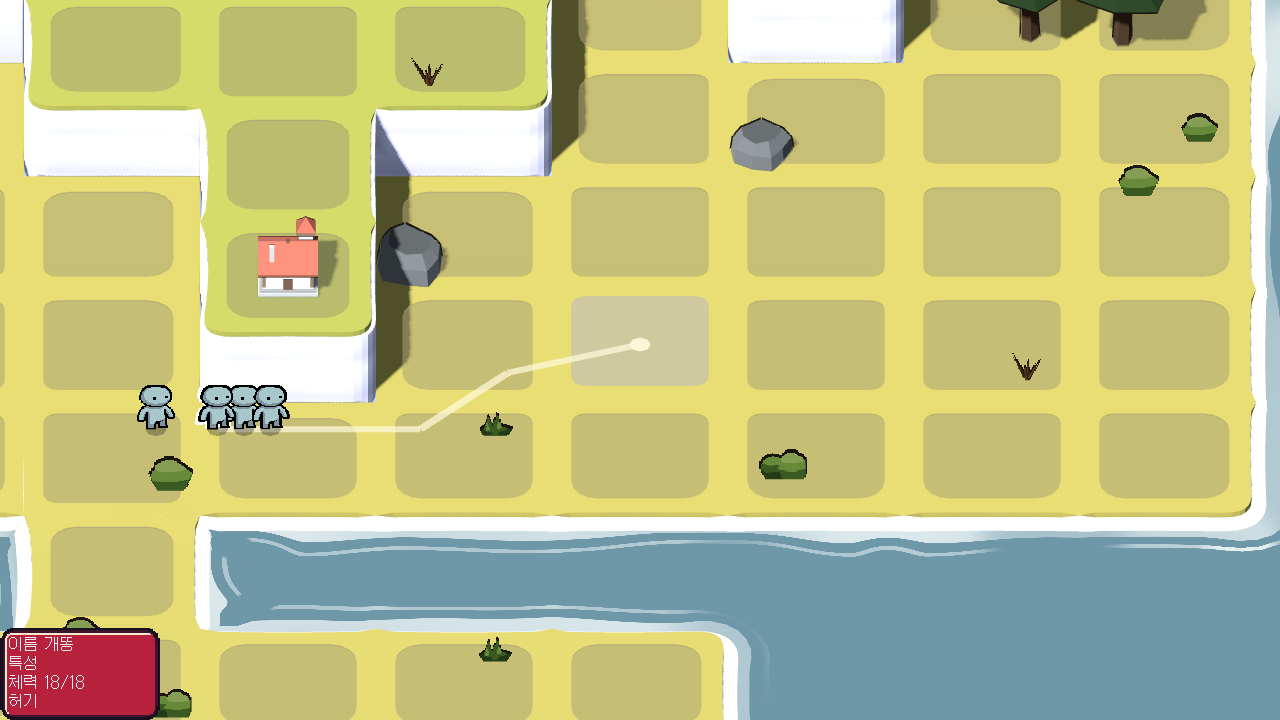
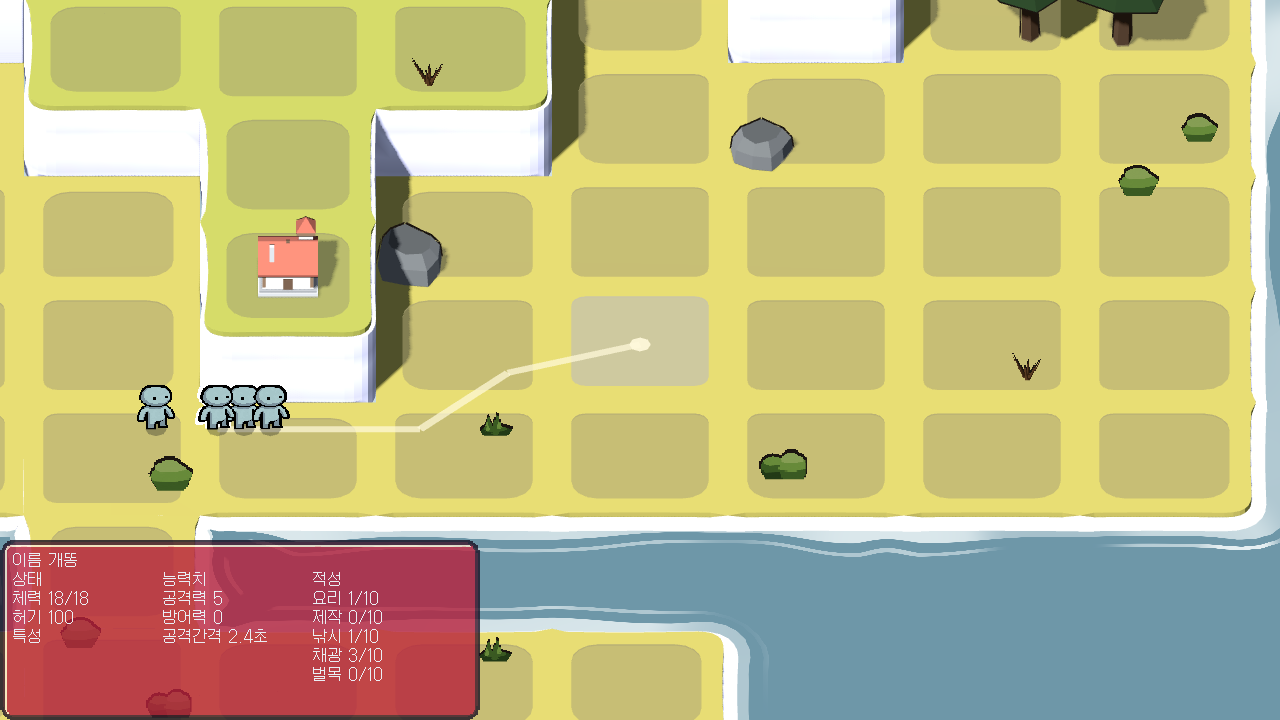
03-02 answered — the panel is built, verified twice, merged with main at 147d9793; suite 3161 / 4
Claude-Session: https://claude.ai/code/session_01HcXkgFFUa2csgqAB95KSTw

diff --git a/docs/roadmap/task-03-command-the-squads/02-what-is-picked/03-02.ticket.md b/docs/roadmap/task-03-command-the-squads/02-what-is-picked/03-02.ticket.md
@@ -4,7 +4,7 @@ Ticket: 03-02
 Name: 고른 것의 정보가 화면에 뜬다
 Task: 03 — 부대를 조종한다
 Type: task
-Status: claimed
+Status: resolved
 Blocked by: 01
 
 **Grilled 2026-09-02 — five things decided, nothing built.**
@@ -56,6 +56,35 @@ OVER picture and the back-to-title button. **There is still not one letter about
 - **What the body holds** — 04-04 names it, the 장비칸 shows it
 - **Squads.** 부대 stayed ambiguous on 2026-09-02 (「부대가 살짝 애매함」) and this panel does not resolve it
 - **Renaming a body** — later, if ever
+
+## Answer
+
+**Built 2026-09-02, in two rounds, on branch `worktree-ticket-03-02-panel`.**
+
+**What is on screen**: press a body → a crimson plate 480x180, alpha 0.8, flush bottom-left, with fifteen
+Galmuri 15 px lines in three columns — 「이름 <name>」 across the top, then **상태** (체력 N/M · 허기 N ·
+특성 blank), **능력치** (공격력 · 방어력 · 공격간격 N.N초), **적성** (요리 · 제작 · 낚시 · 채광 · 벌목, each
+「N/10」). Several picked → 「이름 <first> x N」. Nothing picked → no plate. A wolf's hit lowers 체력 on the
+plate the same frame (seen 18 → 2 → 0).
+
+**What the sim gained**: `Names.LIST` (forty old Korean names) and `Army.names`; `Army.aptitudes` (five per
+body, 0~3 at birth, from an army-owned RNG) and `Army.hunger` (100, nothing drains it yet); **`Run.seed`** —
+the first seed in `src/sim/` since 2026-08-28, drawn when a run opens and planted before the starting four,
+which 08-01 now reads; `Rules.defense_of` (0), `APTITUDES`, `APTITUDE_MAX`, `APTITUDE_BORN_MAX`, `HUNGER_MAX`.
+
+**Measured**: `net_names` 58 · `net_panel` 662 · suite 3161 pass / 4 fail on the tree merged with `main`
+at `147d9793` — the same four reds as before this ticket (`net_boats` 1 · `net_fx_view` 2 · `net_shell` 1),
+`net_camera` incomplete as before. Thirteen mutations across two rounds went red and were restored.
+`verify-look` twice: glyph edges with zero blended pixels, columns on one baseline, ink six pixels clear of
+the bevel, the numbers equal to the sim's stored values for the pressed body.
+
+**Words**: the glossary split 특성 = 적성 into **적성 · 특성 · 능력치**, and stood **상태**, the same evening.
+
+**Left open, on purpose**: the plate's right 100 px and bottom 78 px are empty at these column widths; a
+picked body that dies stays in the hand, so a 「체력 0/18」 plate sits under GAME OVER (03-14); 특성 has no
+content (11-01); 허기 never drains (05-07); no sim rule reads an 적성 or 방어력 yet — decision 15's 「build
+first, revise later」. **The user's doubt about whether this panel is right for the game is on record above
+and was not resolved by building it.**
 
 ## Done when
 
